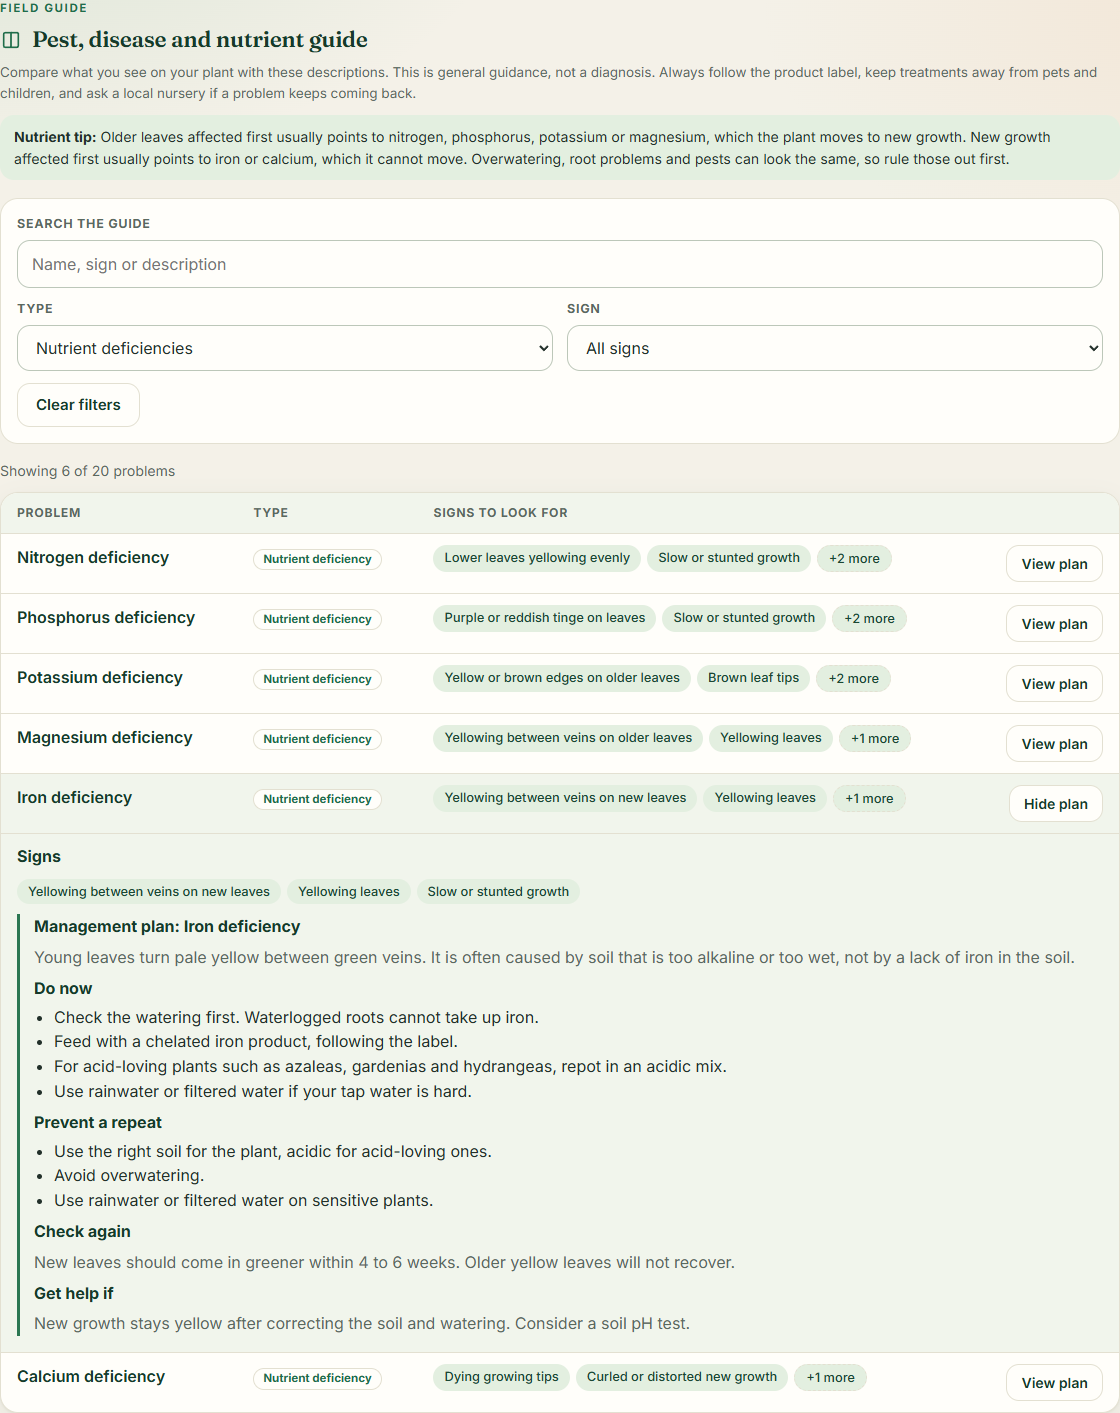
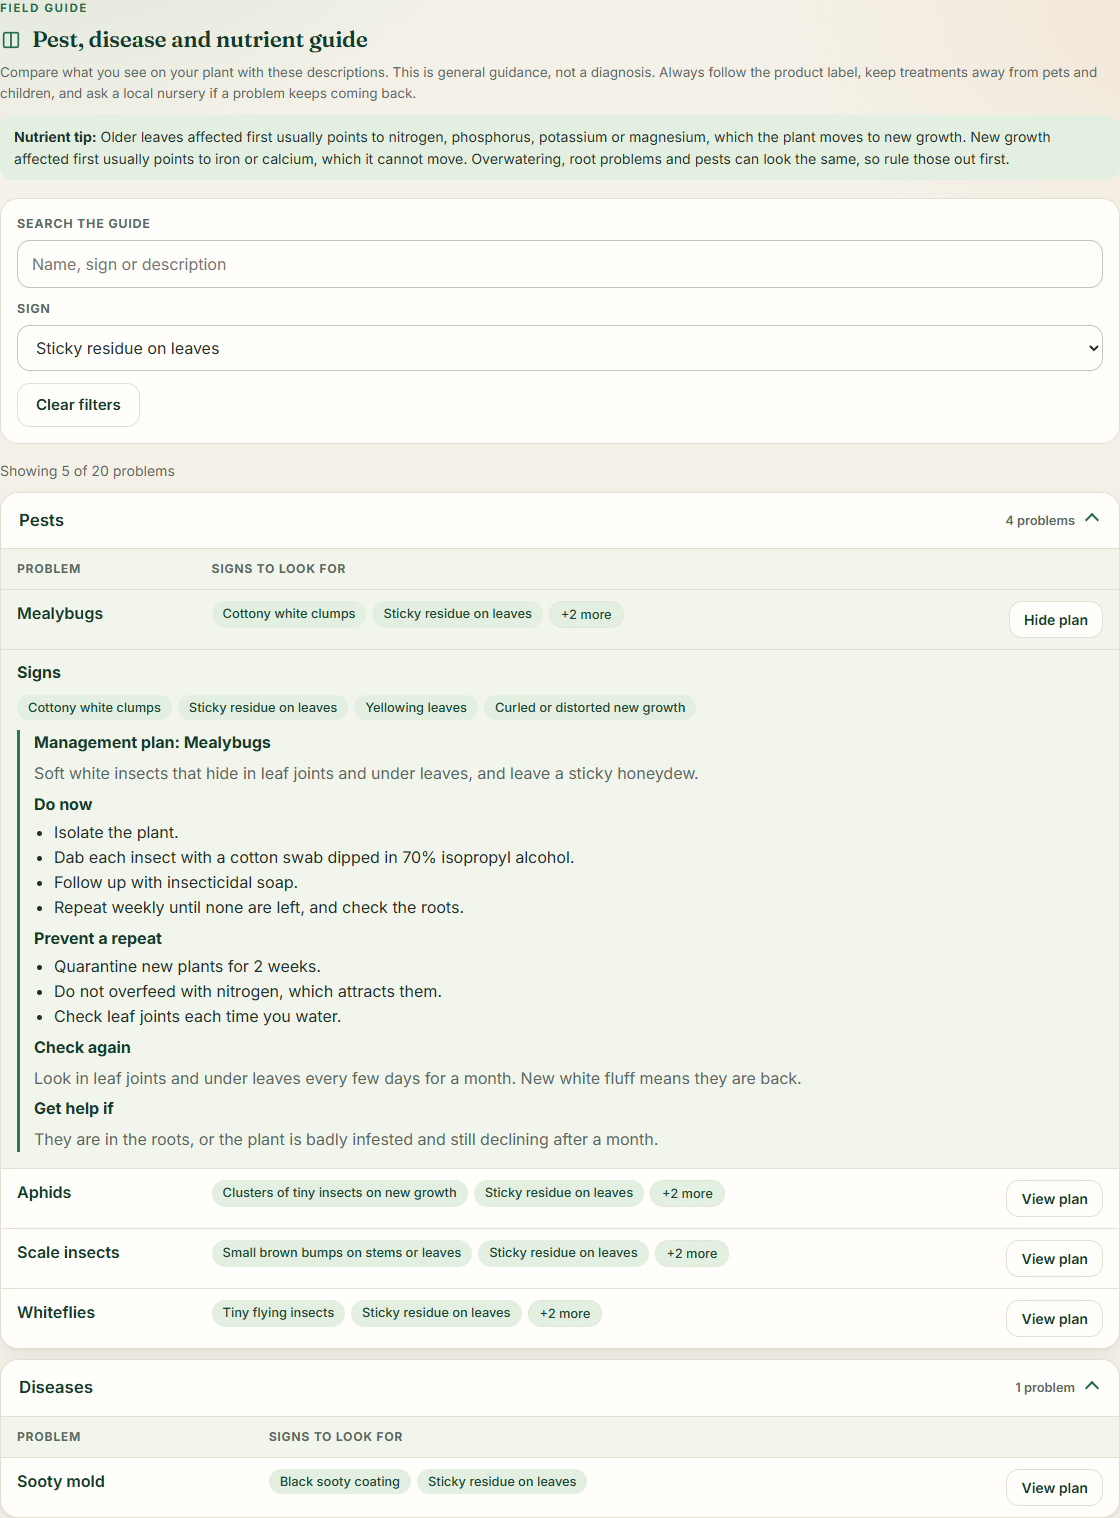
Collapse field guide table into per-section dropdowns

diff --git a/src/PestGuide.jsx b/src/PestGuide.jsx
@@ -1,14 +1,14 @@
-import { Fragment, useMemo, useState } from 'react'
+import { Fragment, useEffect, useMemo, useState } from 'react'
 import { BookIcon } from './icons.jsx'
 import ManagementPlan from './ManagementPlan.jsx'
-import { KIND_GROUPS, KIND_LABELS, NUTRIENT_TIP, PROBLEMS } from './pestsAndDiseases.js'
+import { KIND_GROUPS, NUTRIENT_TIP, PROBLEMS } from './pestsAndDiseases.js'
 
 const ALL = 'all'
 
 export default function PestGuide() {
   const [query, setQuery] = useState('')
-  const [kind, setKind] = useState(ALL)
   const [sign, setSign] = useState(ALL)
+  const [openKinds, setOpenKinds] = useState(() => new Set())
   const [openId, setOpenId] = useState(null)
 
   const signs = useMemo(
@@ -16,23 +16,42 @@ export default function PestGuide() {
     [],
   )
 
-  const filtering = query.trim() !== '' || kind !== ALL || sign !== ALL
+  const filtering = query.trim() !== '' || sign !== ALL
 
   const rows = useMemo(() => {
     const term = query.trim().toLowerCase()
     return PROBLEMS.filter((problem) => {
-      if (kind !== ALL && problem.kind !== kind) return false
       if (sign !== ALL && !problem.signs.includes(sign)) return false
       if (term && !problem.name.toLowerCase().includes(term)
         && !problem.about.toLowerCase().includes(term)
         && !problem.signs.some((item) => item.toLowerCase().includes(term))) return false
       return true
     })
-  }, [query, kind, sign])
+  }, [query, sign])
+
+  // While a filter is active, open every section that still has matches so the results are visible.
+  useEffect(() => {
+    if (!filtering) return
+    setOpenKinds((prev) => {
+      const next = new Set(prev)
+      for (const { kind } of KIND_GROUPS) {
+        if (rows.some((problem) => problem.kind === kind)) next.add(kind)
+      }
+      return next
+    })
+  }, [filtering, rows])
+
+  function toggleSection(kind) {
+    setOpenKinds((prev) => {
+      const next = new Set(prev)
+      if (next.has(kind)) next.delete(kind)
+      else next.add(kind)
+      return next
+    })
+  }
 
   function clearFilters() {
     setQuery('')
-    setKind(ALL)
     setSign(ALL)
   }
 
@@ -53,16 +72,7 @@ export default function PestGuide() {
           <input id="guide-search" type="search" value={query} placeholder="Name, sign or description"
             onChange={(event) => setQuery(event.target.value)} />
         </div>
-        <div className="control">
-          <label htmlFor="guide-kind">Type</label>
-          <select id="guide-kind" value={kind} onChange={(event) => setKind(event.target.value)}>
-            <option value={ALL}>All types</option>
-            {KIND_GROUPS.map(({ kind: value, title }) => (
-              <option key={value} value={value}>{title}</option>
-            ))}
-          </select>
-        </div>
-        <div className="control">
+        <div className="control control-wide">
           <label htmlFor="guide-sign">Sign</label>
           <select id="guide-sign" value={sign} onChange={(event) => setSign(event.target.value)}>
             <option value={ALL}>All signs</option>
@@ -80,66 +90,75 @@ export default function PestGuide() {
           : `${PROBLEMS.length} problems in the guide`}
       </p>
 
-      <div className="guide-table-wrap">
-        <table className="guide-table">
-          <thead>
-            <tr>
-              <th scope="col">Problem</th>
-              <th scope="col">Type</th>
-              <th scope="col" className="guide-col-signs">Signs to look for</th>
-              <th scope="col" className="guide-col-plan"><span className="sr-only">Management plan</span></th>
-            </tr>
-          </thead>
-          <tbody>
-            {rows.length === 0 && (
-              <tr>
-                <td className="guide-empty" colSpan={4}>
-                  No problems match your filters.
-                  <button type="button" className="link" onClick={clearFilters}>Clear filters</button>
-                </td>
-              </tr>
-            )}
-            {rows.map((problem) => {
-              const open = openId === problem.id
-              const planId = `guide-plan-${problem.id}`
-              const shown = problem.signs.slice(0, 2)
-              const extra = problem.signs.length - shown.length
-              return (
-                <Fragment key={problem.id}>
-                  <tr className={open ? 'is-open' : undefined}>
-                    <th scope="row" className="guide-name">{problem.name}</th>
-                    <td><span className="kind">{KIND_LABELS[problem.kind]}</span></td>
-                    <td className="guide-col-signs">
-                      <ul className="chips guide-signs" aria-label={`Signs of ${problem.name}`}>
-                        {shown.map((item) => <li key={item}>{item}</li>)}
-                        {extra > 0 && <li className="chips-more">+{extra} more</li>}
-                      </ul>
-                    </td>
-                    <td className="guide-actions">
-                      <button type="button" className="secondary guide-toggle" aria-expanded={open}
-                        aria-controls={open ? planId : undefined}
-                        onClick={() => setOpenId(open ? null : problem.id)}>
-                        {open ? 'Hide plan' : 'View plan'}
-                      </button>
-                    </td>
+      {rows.length === 0 ? (
+        <div className="guide-empty">
+          No problems match your filters.
+          <button type="button" className="link" onClick={clearFilters}>Clear filters</button>
+        </div>
+      ) : (
+        KIND_GROUPS.map(({ kind, title }) => {
+          const sectionRows = rows.filter((problem) => problem.kind === kind)
+          if (sectionRows.length === 0) return null
+          return (
+            <details key={kind} className="guide-section" open={openKinds.has(kind)}>
+              <summary onClick={() => toggleSection(kind)}>
+                <span className="guide-section-title">{title}</span>
+                <span className="guide-section-count">
+                  {sectionRows.length} {sectionRows.length === 1 ? 'problem' : 'problems'}
+                </span>
+              </summary>
+              <table className="guide-table">
+                <thead>
+                  <tr>
+                    <th scope="col">Problem</th>
+                    <th scope="col" className="guide-col-signs">Signs to look for</th>
+                    <th scope="col" className="guide-col-plan"><span className="sr-only">Management plan</span></th>
                   </tr>
-                  {open && (
-                    <tr className="guide-detail" id={planId}>
-                      <td colSpan={4}>
-                        <p className="treatment-title">Signs</p>
-                        <ul className="chips" aria-label={`All signs of ${problem.name}`}>
-                          {problem.signs.map((item) => <li key={item}>{item}</li>)}
-                        </ul>
-                        <ManagementPlan problem={problem} idPrefix={`guide-${problem.id}`} />
-                      </td>
-                    </tr>
-                  )}
-                </Fragment>
-              )
-            })}
-          </tbody>
-        </table>
-      </div>
+                </thead>
+                <tbody>
+                  {sectionRows.map((problem) => {
+                    const open = openId === problem.id
+                    const planId = `guide-plan-${problem.id}`
+                    const shown = problem.signs.slice(0, 2)
+                    const extra = problem.signs.length - shown.length
+                    return (
+                      <Fragment key={problem.id}>
+                        <tr className={open ? 'is-open' : undefined}>
+                          <th scope="row" className="guide-name">{problem.name}</th>
+                          <td className="guide-col-signs">
+                            <ul className="chips guide-signs" aria-label={`Signs of ${problem.name}`}>
+                              {shown.map((item) => <li key={item}>{item}</li>)}
+                              {extra > 0 && <li className="chips-more">+{extra} more</li>}
+                            </ul>
+                          </td>
+                          <td className="guide-actions">
+                            <button type="button" className="secondary guide-toggle" aria-expanded={open}
+                              aria-controls={open ? planId : undefined}
+                              onClick={() => setOpenId(open ? null : problem.id)}>
+                              {open ? 'Hide plan' : 'View plan'}
+                            </button>
+                          </td>
+                        </tr>
+                        {open && (
+                          <tr className="guide-detail" id={planId}>
+                            <td colSpan={3}>
+                              <p className="treatment-title">Signs</p>
+                              <ul className="chips" aria-label={`All signs of ${problem.name}`}>
+                                {problem.signs.map((item) => <li key={item}>{item}</li>)}
+                              </ul>
+                              <ManagementPlan problem={problem} idPrefix={`guide-${problem.id}`} />
+                            </td>
+                          </tr>
+                        )}
+                      </Fragment>
+                    )
+                  })}
+                </tbody>
+              </table>
+            </details>
+          )
+        })
+      )}
     </section>
   )
 }

diff --git a/src/PestGuide.test.jsx b/src/PestGuide.test.jsx
@@ -2,44 +2,59 @@ import { render, screen, within } from '@testing-library/react'
 import userEvent from '@testing-library/user-event'
 import { describe, expect, it } from 'vitest'
 import PestGuide from './PestGuide.jsx'
-import { PROBLEMS } from './pestsAndDiseases.js'
+import { KIND_GROUPS, PROBLEMS } from './pestsAndDiseases.js'
 
-function guideRows() {
-  const table = screen.getByRole('table')
-  return within(table).getAllByRole('row').slice(1)
+function sections() {
+  return [...document.querySelectorAll('.guide-section')]
+}
+
+function sectionFor(title) {
+  return sections().find((section) => section.querySelector('.guide-section-title')?.textContent === title)
+}
+
+function visibleRowHeaders() {
+  return screen.getAllByRole('rowheader').map((cell) => cell.textContent)
 }
 
 describe('PestGuide', () => {
-  it('lists every problem in one table', () => {
+  it('groups every problem into four collapsed section dropdowns', () => {
     render(<PestGuide />)
-    expect(guideRows()).toHaveLength(PROBLEMS.length)
-    expect(screen.getAllByRole('rowheader').map((cell) => cell.textContent))
-      .toEqual(PROBLEMS.map((problem) => problem.name))
+    expect(sections()).toHaveLength(KIND_GROUPS.length)
+    for (const section of sections()) expect(section).not.toHaveAttribute('open')
+    const expected = KIND_GROUPS.flatMap(({ kind }) => PROBLEMS.filter((problem) => problem.kind === kind))
+    expect(visibleRowHeaders()).toEqual(expected.map((problem) => problem.name))
     expect(screen.getByText(`${PROBLEMS.length} problems in the guide`)).toBeInTheDocument()
+    for (const { kind, title } of KIND_GROUPS) {
+      const count = PROBLEMS.filter((problem) => problem.kind === kind).length
+      expect(sectionFor(title).querySelector('.guide-section-count').textContent)
+        .toContain(`${count} ${count === 1 ? 'problem' : 'problems'}`)
+    }
   })
 
-  it('filters by type', async () => {
+  it('opens and closes a section from its dropdown', async () => {
     const user = userEvent.setup({ applyAccept: false })
     render(<PestGuide />)
-    await user.selectOptions(screen.getByLabelText('Type'), 'pest')
-    const pests = PROBLEMS.filter((problem) => problem.kind === 'pest')
-    expect(guideRows()).toHaveLength(pests.length)
-    expect(screen.getByRole('rowheader', { name: 'Spider mites' })).toBeInTheDocument()
-    expect(screen.queryByRole('rowheader', { name: 'Root rot' })).not.toBeInTheDocument()
-    expect(screen.getByText(`Showing ${pests.length} of ${PROBLEMS.length} problems`)).toBeInTheDocument()
+    const pests = sectionFor('Pests')
+    expect(pests).not.toHaveAttribute('open')
+    await user.click(pests.querySelector('summary'))
+    expect(pests).toHaveAttribute('open')
+    expect(within(pests).getByRole('rowheader', { name: 'Spider mites' })).toBeInTheDocument()
+    await user.click(pests.querySelector('summary'))
+    expect(pests).not.toHaveAttribute('open')
   })
 
-  it('filters by sign', async () => {
+  it('filters by sign and opens only the sections with matches', async () => {
     const user = userEvent.setup({ applyAccept: false })
     render(<PestGuide />)
     const sign = 'Fine webbing on leaves'
     await user.selectOptions(screen.getByLabelText('Sign'), sign)
     const matching = PROBLEMS.filter((problem) => problem.signs.includes(sign))
     expect(matching.length).toBeGreaterThan(0)
-    expect(guideRows()).toHaveLength(matching.length)
-    for (const problem of matching) {
-      expect(screen.getByRole('rowheader', { name: problem.name })).toBeInTheDocument()
-    }
+    expect(visibleRowHeaders()).toEqual(matching.map((problem) => problem.name))
+    expect(screen.getByText(`Showing ${matching.length} of ${PROBLEMS.length} problems`)).toBeInTheDocument()
+    const shownTitles = new Set(matching.map((problem) => KIND_GROUPS.find((group) => group.kind === problem.kind).title))
+    expect(sections()).toHaveLength(shownTitles.size)
+    for (const section of sections()) expect(section).toHaveAttribute('open')
   })
 
   it('searches names, descriptions and signs', async () => {
@@ -54,11 +69,11 @@ describe('PestGuide', () => {
     const user = userEvent.setup({ applyAccept: false })
     render(<PestGuide />)
     await user.type(screen.getByLabelText('Search the guide'), 'zzzz-no-match')
-    const empty = screen.getByText('No problems match your filters.').closest('td')
+    const empty = screen.getByText('No problems match your filters.')
     expect(empty).toBeInTheDocument()
     await user.click(within(empty).getByRole('button', { name: 'Clear filters' }))
     expect(screen.getByText(`${PROBLEMS.length} problems in the guide`)).toBeInTheDocument()
-    expect(guideRows()).toHaveLength(PROBLEMS.length)
+    expect(sections()).toHaveLength(KIND_GROUPS.length)
   })
 
   it('expands a management plan from its row', async () => {

diff --git a/src/styles.css b/src/styles.css
@@ -351,7 +351,18 @@ button.link:hover { transform: none; box-shadow: none; }
 .guide h2 { margin-bottom: 6px; }
 .guide-filters { margin-top: 18px; }
 .guide-count { color: var(--muted); font-size: .88rem; margin: 0 0 10px; }
-.guide-table-wrap { overflow-x: auto; background: var(--surface); border: 1px solid var(--line); border-radius: 18px; box-shadow: var(--shadow); }
+.guide-section { background: var(--surface); border: 1px solid var(--line); border-radius: 18px; box-shadow: var(--shadow); overflow: hidden; margin-top: 10px; }
+.guide-section > summary { list-style: none; display: flex; align-items: center; gap: 12px; cursor: pointer; padding: 15px 18px; font-weight: 600; font-size: 1.05rem; color: var(--heading); }
+.guide-section > summary::-webkit-details-marker { display: none; }
+.guide-section > summary:hover { background: var(--surface-2); }
+.guide-section > summary::after {
+  content: ""; width: 8px; height: 8px; margin-right: 4px; flex-shrink: 0;
+  border-right: 2px solid var(--accent); border-bottom: 2px solid var(--accent);
+  transform: rotate(45deg); transition: transform .2s;
+}
+.guide-section[open] > summary::after { transform: rotate(225deg); }
+.guide-section-count { margin-left: auto; font-size: .8rem; font-weight: 600; color: var(--muted); }
+.guide-section[open] > .guide-table { border-top: 1px solid var(--line); }
 .guide-table { width: 100%; border-collapse: collapse; text-align: left; }
 .guide-table th, .guide-table td { padding: 11px 16px; vertical-align: top; border-bottom: 1px solid var(--line); }
 .guide-table thead th { background: var(--surface-2); font-size: .76rem; font-weight: 700; text-transform: uppercase; letter-spacing: .06em; color: var(--muted); white-space: nowrap; }
@@ -368,7 +379,7 @@ button.link:hover { transform: none; box-shadow: none; }
 .guide-detail p { margin: 6px 0 0; color: var(--muted); line-height: 1.55; }
 .guide-detail p.treatment-title { color: var(--heading); }
 .guide-detail ul:not(.chips) { margin: 4px 0 0; padding-left: 20px; line-height: 1.55; }
-.guide-empty { text-align: center; color: var(--muted); padding: 26px 16px; }
+.guide-empty { margin-top: 10px; text-align: center; color: var(--muted); background: var(--surface); border: 1px dashed var(--line); border-radius: 18px; padding: 26px 16px; }
 .guide-empty button { margin-left: 8px; }
 .sr-only { position: absolute; width: 1px; height: 1px; padding: 0; margin: -1px; overflow: hidden; clip: rect(0 0 0 0); white-space: nowrap; border: 0; }
 .backup { margin-top: 40px; display: grid; gap: 4px; }

diff --git a/src/App.nutrients.test.jsx b/src/App.nutrients.test.jsx
@@ -99,7 +99,7 @@ describe('nutrient deficiency detection', () => {
     setup()
     const guide = screen.getByRole('region', { name: /pest, disease and nutrient guide/i })
     for (const title of ['Pests', 'Diseases', 'Nutrient deficiencies', 'Care problems']) {
-      expect(within(guide).getByRole('option', { name: title })).toBeInTheDocument()
+      expect(within(guide).getByText(title, { selector: '.guide-section-title' })).toBeInTheDocument()
     }
     expect(within(guide).getByRole('rowheader', { name: 'Magnesium deficiency' })).toBeInTheDocument()
     expect(within(guide).getByText(/nutrient tip/i)).toBeInTheDocument()
